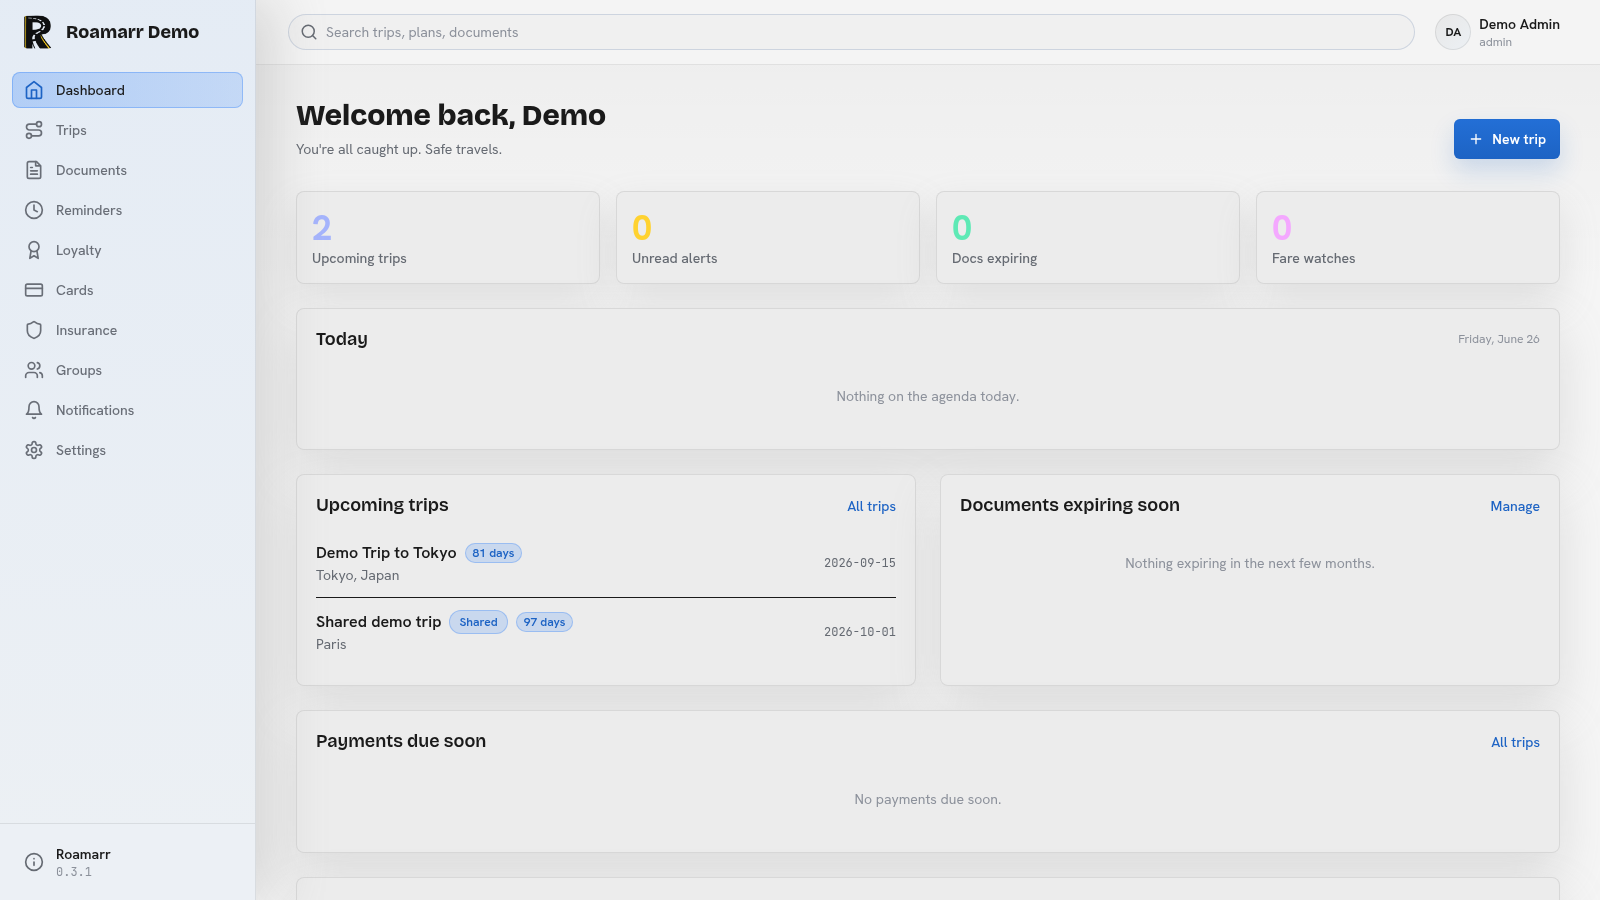
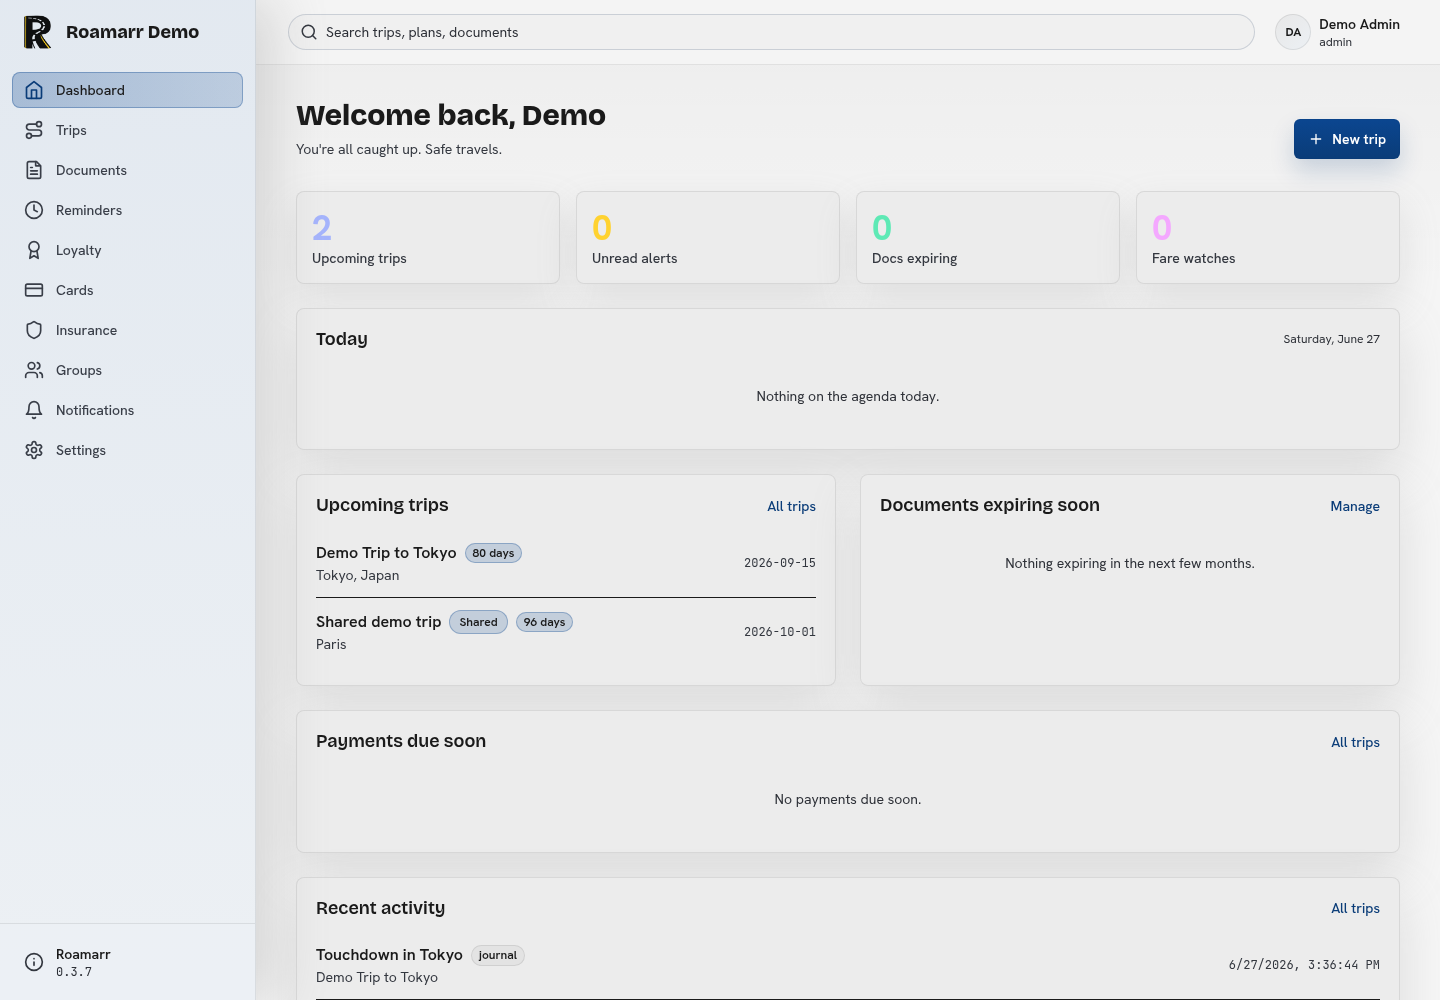
Improve trip detail theme contrast and layout

diff --git a/src/app.css b/src/app.css
@@ -75,6 +75,12 @@
 		--theme-brand-readable: #a8d2ff;
 		--theme-brand-2: #96caff;
 		--theme-accent-text: #0a1628;
+		--theme-primary-top-override: #a8d2ff;
+		--theme-primary-bottom-override: #80bcff;
+		--theme-primary-hover-top-override: #bfdfff;
+		--theme-primary-hover-bottom-override: #8fc8ff;
+		--theme-primary-shadow-override: color-mix(in oklab, #80bcff 16%, transparent);
+		--theme-primary-border-override: color-mix(in oklab, #a8d2ff 28%, transparent);
 		--theme-wash: rgba(255, 255, 255, 0.03);
 	}
 	:where(.theme-root, .theme-preview)[data-theme='light'] {
@@ -164,11 +170,11 @@
 		--theme-brand-readable: #8db7ff;
 		--theme-brand-2: #7aa7ff;
 		--theme-accent-text: #ffffff;
-		--theme-primary-top-override: #2b73d9;
-		--theme-primary-bottom-override: #1856b8;
-		--theme-primary-hover-top-override: #367fe6;
-		--theme-primary-hover-bottom-override: #2067d0;
-		--theme-primary-shadow-override: color-mix(in oklab, #1b5fc8 20%, transparent);
+		--theme-primary-top-override: #0f4c9a;
+		--theme-primary-bottom-override: #0b3f86;
+		--theme-primary-hover-top-override: #165cad;
+		--theme-primary-hover-bottom-override: #0f4c9a;
+		--theme-primary-shadow-override: color-mix(in oklab, #0b3f86 22%, transparent);
 		--theme-primary-border-override: color-mix(in oklab, #ffffff 12%, transparent);
 		--theme-wash: rgba(255, 255, 255, 0.025);
 	}
@@ -910,14 +916,16 @@ button.card:hover,
 	}
 	.btn-primary {
 		@apply bg-gradient-to-b from-indigo-500 to-indigo-600 text-white shadow-lg shadow-indigo-900/40 hover:from-indigo-400 hover:to-indigo-500 active:translate-y-px;
-		background: linear-gradient(180deg, var(--theme-primary-top), var(--theme-primary-bottom));
+		background-color: var(--theme-primary-bottom);
+		background-image: linear-gradient(180deg, var(--theme-primary-top), var(--theme-primary-bottom));
 		box-shadow:
 			0 12px 24px var(--theme-primary-shadow),
 			inset 0 0 0 1px var(--theme-primary-border);
 		color: var(--theme-primary-text);
 	}
 	.btn-primary:hover {
-		background: linear-gradient(180deg, var(--theme-primary-hover-top), var(--theme-primary-hover-bottom));
+		background-color: var(--theme-primary-hover-bottom);
+		background-image: linear-gradient(180deg, var(--theme-primary-hover-top), var(--theme-primary-hover-bottom));
 	}
 	.btn-secondary {
 		@apply bg-slate-200/10 text-slate-100 ring-1 ring-white/15 ring-inset hover:bg-slate-200/15 hover:text-white active:translate-y-px;
@@ -1228,7 +1236,7 @@ button.card:hover,
 		@apply bg-indigo-500/15 text-indigo-300 ring-indigo-400/30;
 		background: var(--theme-active);
 		box-shadow: inset 0 0 0 1px color-mix(in oklab, var(--theme-brand) 30%, transparent);
-		color: var(--theme-brand-readable);
+		color: var(--theme-strong);
 	}
 	.badge-green {
 		@apply bg-emerald-500/15 text-emerald-300 ring-emerald-400/30;
@@ -1243,13 +1251,13 @@ button.card:hover,
 		@apply bg-slate-500/15 text-slate-300 ring-slate-400/30;
 		background: var(--theme-subtle);
 		box-shadow: inset 0 0 0 1px var(--theme-line);
-		color: var(--theme-readable-muted);
+		color: var(--theme-ink);
 	}
 	.tag {
 		@apply inline-flex items-center gap-1.5 rounded-full bg-white/[0.04] px-2.5 py-1 text-xs text-slate-300 ring-1 ring-white/10 ring-inset;
 		background: var(--theme-subtle);
 		box-shadow: inset 0 0 0 1px var(--theme-line);
-		color: var(--theme-readable-muted);
+		color: var(--theme-ink);
 	}
 
 	:where(
@@ -1401,10 +1409,10 @@ button.card:hover,
 
 	/* Trip detail — Seerr-inspired hero + TripIt timeline */
 	.trip-detail {
-		@apply -mx-4 -mt-6 sm:-mx-6 lg:-mx-10 lg:-mt-10;
+		@apply -mt-6 lg:-mt-8;
 	}
 	.trip-detail-body {
-		@apply px-4 pb-6 sm:px-6 lg:px-10 lg:pb-10;
+		@apply pb-6 lg:pb-10;
 	}
 	.trip-tab-layout {
 		@apply grid gap-8;
@@ -1439,7 +1447,8 @@ button.card:hover,
 	}
 	.trip-hero {
 		@apply relative overflow-visible border-b border-white/10;
-		background:
+		background-color: var(--theme-panel);
+		background-image:
 			linear-gradient(
 				135deg,
 				color-mix(in oklab, var(--theme-panel-raised) 84%, var(--theme-brand) 16%),
@@ -1478,19 +1487,20 @@ button.card:hover,
 	}
 	.trip-poster {
 		@apply relative aspect-[2/3] w-28 shrink-0 overflow-hidden rounded-lg bg-surface2 shadow-2xl shadow-black/50 ring-1 ring-white/15 sm:w-36;
-		background:
+		background-color: var(--theme-panel-raised);
+		background-image:
 			linear-gradient(
 				145deg,
-				color-mix(in oklab, var(--theme-brand) 70%, var(--theme-panel) 30%),
-				color-mix(in oklab, var(--theme-brand-2) 52%, var(--theme-panel-raised) 48%)
+				color-mix(in oklab, var(--theme-panel-raised) 82%, var(--theme-brand) 18%),
+				color-mix(in oklab, var(--theme-panel-raised) 86%, var(--theme-brand-2) 14%)
 			);
 		box-shadow:
 			0 24px 44px color-mix(in oklab, var(--theme-shadow) 24%, transparent),
 			inset 0 0 0 1px color-mix(in oklab, var(--theme-strong) 18%, var(--theme-line));
-		color: var(--theme-accent-text);
+		color: var(--trip-readable-strong);
 	}
 	.trip-poster-icon {
-		color: color-mix(in oklab, currentColor 72%, transparent);
+		color: currentColor;
 	}
 	.trip-poster-initials {
 		color: currentColor;
@@ -1500,22 +1510,27 @@ button.card:hover,
 	}
 	.trip-meta-pill {
 		@apply inline-flex items-center gap-2 rounded-md bg-white/5 px-3 py-1.5 text-[0.938rem] font-medium leading-snug text-slate-300 ring-1 ring-white/10 ring-inset;
-		background: var(--theme-subtle);
+		background: color-mix(in oklab, var(--theme-panel-solid) 88%, transparent);
 		box-shadow: inset 0 0 0 1px var(--theme-line);
+		color: var(--theme-ink);
 	}
 	.trip-meta-pill-arrow {
 		@apply h-[0.9375rem] w-[0.9375rem] shrink-0 -translate-y-px text-slate-500;
+		color: var(--theme-ink);
 	}
 	.trip-sidebar-card {
 		@apply rounded-lg bg-surface/60 p-4 ring-1 ring-white/10;
 		background: var(--theme-panel);
 		box-shadow: inset 0 0 0 1px var(--theme-line);
+		color: var(--theme-ink);
 	}
 	.trip-sidebar-dl dt {
 		@apply text-xs font-medium tracking-wide text-slate-500 uppercase;
+		color: var(--theme-ink);
 	}
 	.trip-sidebar-dl dd {
 		@apply mt-0.5 text-sm text-slate-200;
+		color: var(--theme-strong);
 	}
 	.trip-sidebar-dl > div + div {
 		@apply mt-3 border-t border-white/5 pt-3;
@@ -1525,6 +1540,7 @@ button.card:hover,
 		@apply sticky top-0 z-10 -mx-1 mb-3 flex items-center justify-between gap-3 rounded-lg bg-surface2/90 px-[0.938rem] py-2.5 ring-1 ring-white/10 backdrop-blur-sm;
 		background: color-mix(in oklab, var(--theme-panel-raised) 90%, transparent);
 		box-shadow: inset 0 0 0 1px var(--theme-line);
+		color: var(--theme-ink);
 	}
 	.trip-timeline-groups {
 		@apply relative;
@@ -1552,6 +1568,7 @@ button.card:hover,
 		@apply rounded-lg bg-white/[0.03] p-3 ring-1 ring-white/5 transition hover:bg-white/[0.05] hover:ring-white/10;
 		background: var(--theme-subtle);
 		box-shadow: inset 0 0 0 1px color-mix(in oklab, var(--theme-line) 72%, transparent);
+		color: var(--theme-ink);
 	}
 	.trip-timeline-card:hover {
 		background: var(--theme-subtle-hover);
@@ -1595,5 +1612,128 @@ button.card:hover,
 	}
 	.segment-form-section-body {
 		@apply mt-4;
+	}
+}
+
+@layer utilities {
+	.theme-root main:has(> div > .trip-detail) {
+		padding-inline: 0;
+	}
+
+	.theme-root main:has(> div > .trip-detail) > div {
+		max-width: none;
+	}
+
+	.trip-detail {
+		--trip-readable: light-dark(#111111, #ffffff);
+		--trip-readable-strong: light-dark(#111111, #ffffff);
+		--trip-readable-danger: light-dark(#111111, #ffffff);
+		--trip-readable-warning: light-dark(#111111, #ffffff);
+		--trip-readable-success: light-dark(#111111, #ffffff);
+	}
+
+	.trip-detail :where(.text-white, .text-slate-100, .text-slate-200, .text-slate-300) {
+		color: var(--trip-readable-strong);
+	}
+
+	.trip-detail
+		:where(
+			.text-muted,
+			.text-slate-400,
+			.text-slate-500,
+			.text-slate-600,
+			.text-indigo-300,
+			.text-indigo-300\/80,
+			.text-indigo-300\/90
+		) {
+		color: var(--trip-readable);
+	}
+
+	.trip-detail :where(.text-emerald-300) {
+		color: var(--trip-readable-success);
+	}
+
+	.trip-detail :where(.text-amber-300) {
+		color: var(--trip-readable-warning);
+	}
+
+	.trip-detail :where(.text-red-300, .text-rose-300) {
+		color: var(--trip-readable-danger);
+	}
+
+	.trip-detail :where(.trip-meta-pill, .trip-meta-pill svg, .trip-meta-pill-arrow) {
+		color: var(--trip-readable);
+	}
+
+	.trip-detail :where(.trip-tab-link, .trip-tab-count, .back-link, .nav-link) {
+		color: var(--trip-readable);
+	}
+
+	.trip-detail :where(.trip-tab-link-active) {
+		color: var(--trip-readable-strong);
+	}
+
+	.trip-detail :where(.btn-primary) {
+		background-color: var(--theme-primary-bottom);
+		background-image: linear-gradient(180deg, var(--theme-primary-top), var(--theme-primary-bottom));
+		color: var(--theme-primary-text);
+	}
+
+	.trip-detail :where(.btn-primary *) {
+		color: var(--theme-primary-text);
+	}
+
+	.trip-detail
+		:where(
+			.app-user-menu-item,
+			.check-label,
+			.check-label-done,
+			.checkbox-label,
+			.code-chip,
+			.empty-text,
+			.field-help,
+			.label,
+			.meta,
+			.meta-strong,
+			.trip-sidebar-dl dt,
+			.trip-sidebar-dl dd,
+			.btn-ghost,
+			.btn-ghost-muted,
+			.btn-ghost-indigo,
+			.btn-ghost-danger,
+			.btn-ghost-amber,
+			.btn-ghost-success,
+			.icon-button
+		) {
+		color: var(--trip-readable);
+	}
+
+	.trip-detail
+		:where(
+			.btn-ghost:hover,
+			.btn-ghost-muted:hover,
+			.btn-ghost-indigo:hover,
+			.btn-ghost-danger:hover,
+			.btn-ghost-amber:hover,
+			.btn-ghost-success:hover,
+			.icon-button:hover
+		) {
+		color: var(--trip-readable-strong);
+	}
+
+	.trip-detail :where(.badge-brand, .badge-slate, .tag) {
+		color: var(--trip-readable-strong);
+	}
+
+	.trip-detail :where(.badge-green) {
+		color: var(--trip-readable-success);
+	}
+
+	.trip-detail :where(.badge-amber) {
+		color: var(--trip-readable-warning);
+	}
+
+	.trip-detail :where(.badge-red) {
+		color: var(--trip-readable-danger);
 	}
 }

diff --git a/src/routes/trips/[id]/+page.svelte b/src/routes/trips/[id]/+page.svelte
@@ -537,7 +537,7 @@
 		</nav>
 	</div>
 
-	<div class="trip-detail-body mt-6 trip-tab-layout {activeTabHasSidebar ? 'trip-tab-layout-with-sidebar' : ''}">
+	<div class="trip-detail-body px-4 trip-tab-layout {activeTabHasSidebar ? 'trip-tab-layout-with-sidebar' : ''}">
 		<!-- Main column -->
 		<div class="min-w-0 space-y-8 {activeTabHasSidebar ? '' : 'trip-tab-main-wide'} {activeTabMainHidden ? 'hidden' : ''}">
 			{#if activeTab === 'itinerary' && ownerTrip?.notes}

diff --git a/README.md b/README.md
@@ -28,11 +28,32 @@
 
 ## Screenshots
 
-<p align="center">
-  <img src="docs/screenshots/dashboard.png" alt="Roamarr dashboard with upcoming trips, reminders, and travel planning metrics" width="800" />
-  <br />
-  <em>Dashboard overview for a demo Roamarr instance with trips, reminders, documents, and operational settings.</em>
-</p>
+<table>
+  <tr>
+    <td width="50%">
+      <img src="docs/screenshots/dashboard.png" alt="Roamarr dashboard with upcoming trips, reminders, and travel planning metrics" />
+      <br />
+      <sub><b>Dashboard</b> — trips, reminders, documents, and recent activity.</sub>
+    </td>
+    <td width="50%">
+      <img src="docs/screenshots/trip-itinerary.png" alt="Roamarr trip itinerary tab with hero details, timeline cards, and trip stats" />
+      <br />
+      <sub><b>Trip itinerary</b> — hero details, tabs, timeline cards, and stats.</sub>
+    </td>
+  </tr>
+  <tr>
+    <td width="50%">
+      <img src="docs/screenshots/trip-prep.png" alt="Roamarr trip prep tab with packing checklist and trip preparation controls" />
+      <br />
+      <sub><b>Trip prep</b> — packing checklist and before-you-go controls.</sub>
+    </td>
+    <td width="50%">
+      <img src="docs/screenshots/trip-documents.png" alt="Roamarr trip documents tab with linked trip files and insurance sections" />
+      <br />
+      <sub><b>Trip documents</b> — linked files, notes, and insurance context.</sub>
+    </td>
+  </tr>
+</table>
 
 ---
 